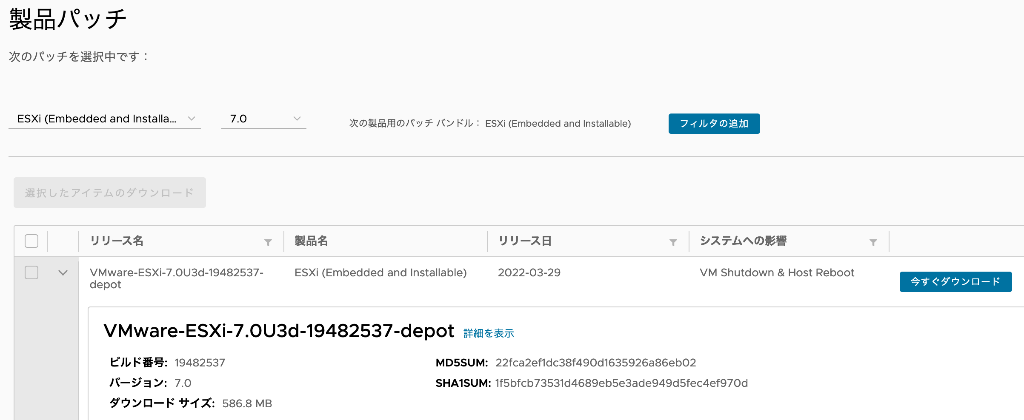
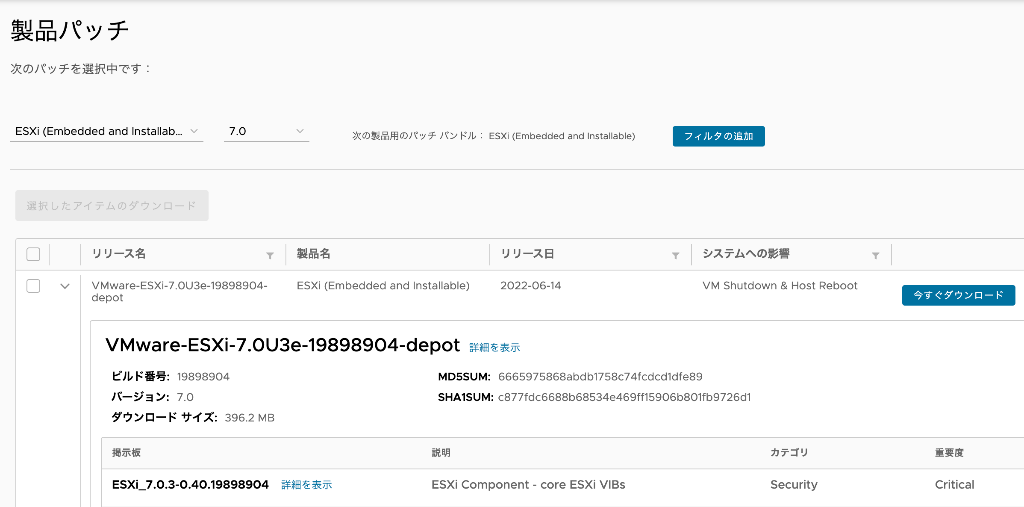
update post

diff --git a/source/_posts/esxi67-patch.md b/source/_posts/esxi67-patch.md
@@ -21,6 +21,9 @@ SSHでESXiに接続し、コマンドラインでパッチを適用します。W
 
 ESXiのパッチ情報は以下を参照してください。当該ページの左ペインメニューには最新パッチの情報が掲載されていますので、最新のパッチ情報を辿ってください。また、過去のパッチの情報も提供されています。
 
+> VMware ESXi 7.0 Update 3e（2022-6-14発表）
+ <https://docs.vmware.com/en/VMware-vSphere/7.0/rn/vsphere-esxi-70u3e-release-notes.html>
+
 > VMware ESXi 7.0 Update 3d（2022-3-29発表）
  <https://docs.vmware.com/en/VMware-vSphere/7.0/rn/vsphere-esxi-70u3d-release-notes.html>
 
@@ -65,10 +68,10 @@ ESXiにログインし、以下の作業を行います。
 4. パッチファイルのESXiへのアップロード
  ESXiの左ペインメニューの"ストレージ"を選択、メインのストレージ（一般的にはdatastore1）を選択し、"データストアブラウザ"をクリックします
  {% asset_img esxi3.png alt %}
- アップロードボタンをクリックし、ダウンロードしたパッチファイルをアップロードします。
+ アップロードボタンをクリックし、ダウンロードしたパッチファイルをアップロードします。ここの例ではupdateフォルダを作成し、そこにアップロードします。
 
 5. SSHでESXiにログイン
- ログイン後、パッチをアップロードしたフォルダ（*Datastore/DirectoryName*）に移動しアップロードしたパッチファイルが存在するか`ls`で確認します
+ ログイン後、パッチをアップロードしたフォルダ（datastore1/update）に移動しアップロードしたパッチファイルが存在するか`ls`で確認します
  ``` bash
   The time and date of this login have been sent to the system logs.
 
@@ -82,64 +85,40 @@ ESXiにログインし、以下の作業を行います。
 
   The ESXi Shell can be disabled by an administrative user. See the
   vSphere Security documentation for more information.
-  [root@esxi:~] cd /vmfs/volumes/Datastore/DirectoryName
+  [root@esxi:~] cd /vmfs/volumes/datastore1/update
   [root@esxi:~] ls
  ```
 
 6. パッチ適用コマンドを入力します
- 新しいドライバやバグフィックス、セキュリティパッチなど含めたprofileとして整合性が取れたvibのアップデートはprofile updateを実行します。ここでは、2022年3月29日に発表されたESXi7.0Update3dにアップデートすることを例にします。
- - esxcle software profile update（推奨）
+ 新しいドライバやバグフィックス、セキュリティパッチなど含めたprofileとして整合性が取れたvibのアップデートはprofile updateを実行します。ここでは、2022年3月29日に発表されたESXi7.0Update3dからUpdate 3eにアップデートすることを例にします。
+
  現在の実行中のprofileを確認します。`esxcli software profile get`
  ``` bash
-[root@esxi:~] ESXi-7.0U3c-19193900-standard
-   Name: ESXi-7.0U3c-19193900-standard
+[root@esxi:~](Updated) ESXi-7.0U3d-19482537-standard
+   Name: (Updated) ESXi-7.0U3d-19482537-standard
    Vendor: VMware, Inc.
  ```
+
  一般的にはバージョンの最後に"-standard"の文字が付いています。standard版がインストールされている事を示します。
  次に、パッチファイルに登録されているprofileを確認します（パッチはフルパス指定が必要です）。
  ``` bash
- [root@esxi] esxcli software sources profile list -d /vmfs/volumes/*Datastore/DirectoryName*/VMware-ESXi-7.0U3d-19482537-depot.zip
-Name                            Vendor        Acceptance Level  Creation Time        Modification Time
-------------------------------  ------------  ----------------  -------------------  -----------------
-ESXi-7.0U3sd-19482531-standard  VMware, Inc.  PartnerSupported  2022-03-29T00:00:00  2022-03-29T00:00:00
-ESXi-7.0U3sd-19482531-no-tools  VMware, Inc.  PartnerSupported  2022-03-29T00:00:00  2022-03-11T13:53:29
-ESXi-7.0U3d-19482537-standard   VMware, Inc.  PartnerSupported  2022-03-29T00:00:00  2022-03-29T00:00:00
-ESXi-7.0U3d-19482537-no-tools   VMware, Inc.  PartnerSupported  2022-03-29T00:00:00  2022-03-11T15:01:02
+ [root@esxi] esxcli software sources profile list -d /vmfs/volumes/datastore1/update/VMware-ESXi-7.0U3e-19898904-depot.zip
+
+Name                           Vendor        Acceptance Level  Creation Time        Modification Time
+-----------------------------  ------------  ----------------  -------------------  -----------------
+ESXi-7.0U3e-19898904-standard  VMware, Inc.  PartnerSupported  2022-06-14T00:00:00  2022-06-14T00:00:00
+ESXi-7.0U3e-19898904-no-tools  VMware, Inc.  PartnerSupported  2022-06-14T00:00:00  2022-06-03T07:44:29
  ```
- 以下のようにパッチファイルのzipをフルパスで指定し、VMwareのパッチ情報にあるプロファイル名を指定しパッチを適用します。
+
+以下のようにパッチファイルのzipをフルパスで指定し、VMwareのパッチ情報にあるプロファイル名を指定しパッチを適用します。
  ``` bash
-  [root@esxi:~] esxcli software profile update -d /vmfs/volumes/*Datastore/DirectoryName*/VMware-ESXi-7.0U3d-19482537-depot.zip -p ESXi-7.0U3d-19482537-standard
+  [root@esxi:~] esxcli software profile update -d /vmfs/volumes/datastore1/update/VMware-ESXi-7.0U3e-19898904-depot.zip -p ESXi-7.0U3e-19898904-standard
  ```
-なお、2022-3-29に提供されたESXi7.03dパッチの`standard`については2種類ありますが、一般的にはESXi-7.0U3{% label primary@d %}-19482537-standardを適用します。7.0U3{% label primary@sd %}はセキュリティパッチであり、以下の通り、バグフィックスの7.0U3{% label primary@d %}の方にモジュールは全て内包されています。
-
-| ESXi-7.0U3{% label primary@d %}-19482537-standard                        | ESXi-7.0U3{% label primary@sd %}-19482531-standard                |
-| ------------------------------------------------------------------------ | ----------------------------------------------------------------- |
-| VMware_bootbank_cpu-microcode_7.0.3-0.35.19482537                        | VMware_bootbank_cpu-microcode_7.0.3-0.30.19482531                 |
-| VMware_bootbank_bmcal_7.0.3-0.35.19482537                                | VMware_bootbank_bmcal_7.0.3-0.30.19482531                         |
-| VMware_bootbank_vsanhealth_7.0.3-0.35.19482537                           | VMware_bootbank_vsanhealth_7.0.3-0.30.19482531                    |
-| VMware_bootbank_gc_7.0.3-0.35.19482537                                   | VMware_bootbank_gc_7.0.3-0.30.19482531                            |
-| VMware_bootbank_vsan_7.0.3-0.35.19482537                                 | VMware_bootbank_vsan_7.0.3-0.30.19482531                          |
-| VMware_bootbank_esxio-combiner_7.0.3-0.35.19482537                       | VMware_bootbank_esxio-combiner_7.0.3-0.30.19482531                |
-| VMware_bootbank_esx-xserver_7.0.3-0.35.19482537                          | VMware_bootbank_esx-xserver_7.0.3-0.30.19482531                   |
-| VMware_bootbank_native-misc-drivers_7.0.3-0.35.19482537                  | VMware_bootbank_native-misc-drivers_7.0.3-0.30.19482531           |
-| VMware_bootbank_trx_7.0.3-0.35.19482537                                  | VMware_bootbank_trx_7.0.3-0.30.19482531                           |
-| VMware_bootbank_crx_7.0.3-0.35.19482537                                  | VMware_bootbank_crx_7.0.3-0.30.19482531                           |
-| VMware_bootbank_esx-dvfilter-generic-fastpath_7.0.3-0.35.19482537        | VMware_bootbank_esx-dvfilter-generic-fastpath_7.0.3-0.30.19482531 |
-| VMware_bootbank_vdfs_7.0.3-0.35.19482537                                 | VMware_bootbank_vdfs_7.0.3-0.30.19482531                          |
-| VMware_bootbank_esx-base_7.0.3-0.35.19482537                             | VMware_bootbank_esx-base_7.0.3-0.30.19482531                      |
-| VMware_bootbank_esx-update_7.0.3-0.35.19482537                           | VMware_bootbank_esx-update_7.0.3-0.30.19482531                    |
-| VMware_bootbank_loadesx_7.0.3-0.35.19482537                              | VMware_bootbank_loadesx_7.0.3-0.30.19482531                       |
-| VMW_bootbank_lpfc_14.0.169.25-5vmw.703.0.35.19482537                     |                                                                   |
-| VMware_bootbank_lsuv2-lsiv2-drivers-plugin_1.0.0-10vmw.703.0.35.19482537 |                                                                   |
-| VMW_bootbank_nvmetcp_1.0.0.1-1vmw.703.0.35.19482537                      |                                                                   |
-| VMware_locker_tools-light_11.3.5.18557794-19482531                       | VMware_locker_tools-light_11.3.5.18557794-19482531                |
-
-1. `esxcli software profile update`実行後しばらくしてから、コマンド結果が表示されます。
+ 7. `esxcli software profile update`実行後しばらくしてから、コマンド結果が表示されます。
  ```
- Update Result
+Update Result
    Message: The update completed successfully, but the system needs to be rebooted for the changes to be effective.
-   Reboot Required: true
-   VIBs Installed: VMW_bootbank_lpfc_14.0.169.25-5vmw.703.0.35.19482537,...
+   Reboot Required: true...
  ```
 
 2. コマンドプロンプトから、`reboot`としてESXiを再起動します。
@@ -155,7 +134,7 @@ ESXi-7.0U3d-19482537-no-tools   VMware, Inc.  PartnerSupported  2022-03-29T00:00
 
  ``` bash
  [root@esxi2:~] vmware -v
- VMware ESXi 7.0.3 build-19482537
+ VMware ESXi 7.0.3 build-19898904
  ```
 
 3. 最後にこれまで実施してきたメンテナンス準備とは反対の作業をします。メンテナンスモードの終了・SSHの無効化・仮想マシンの起動と続けます。
